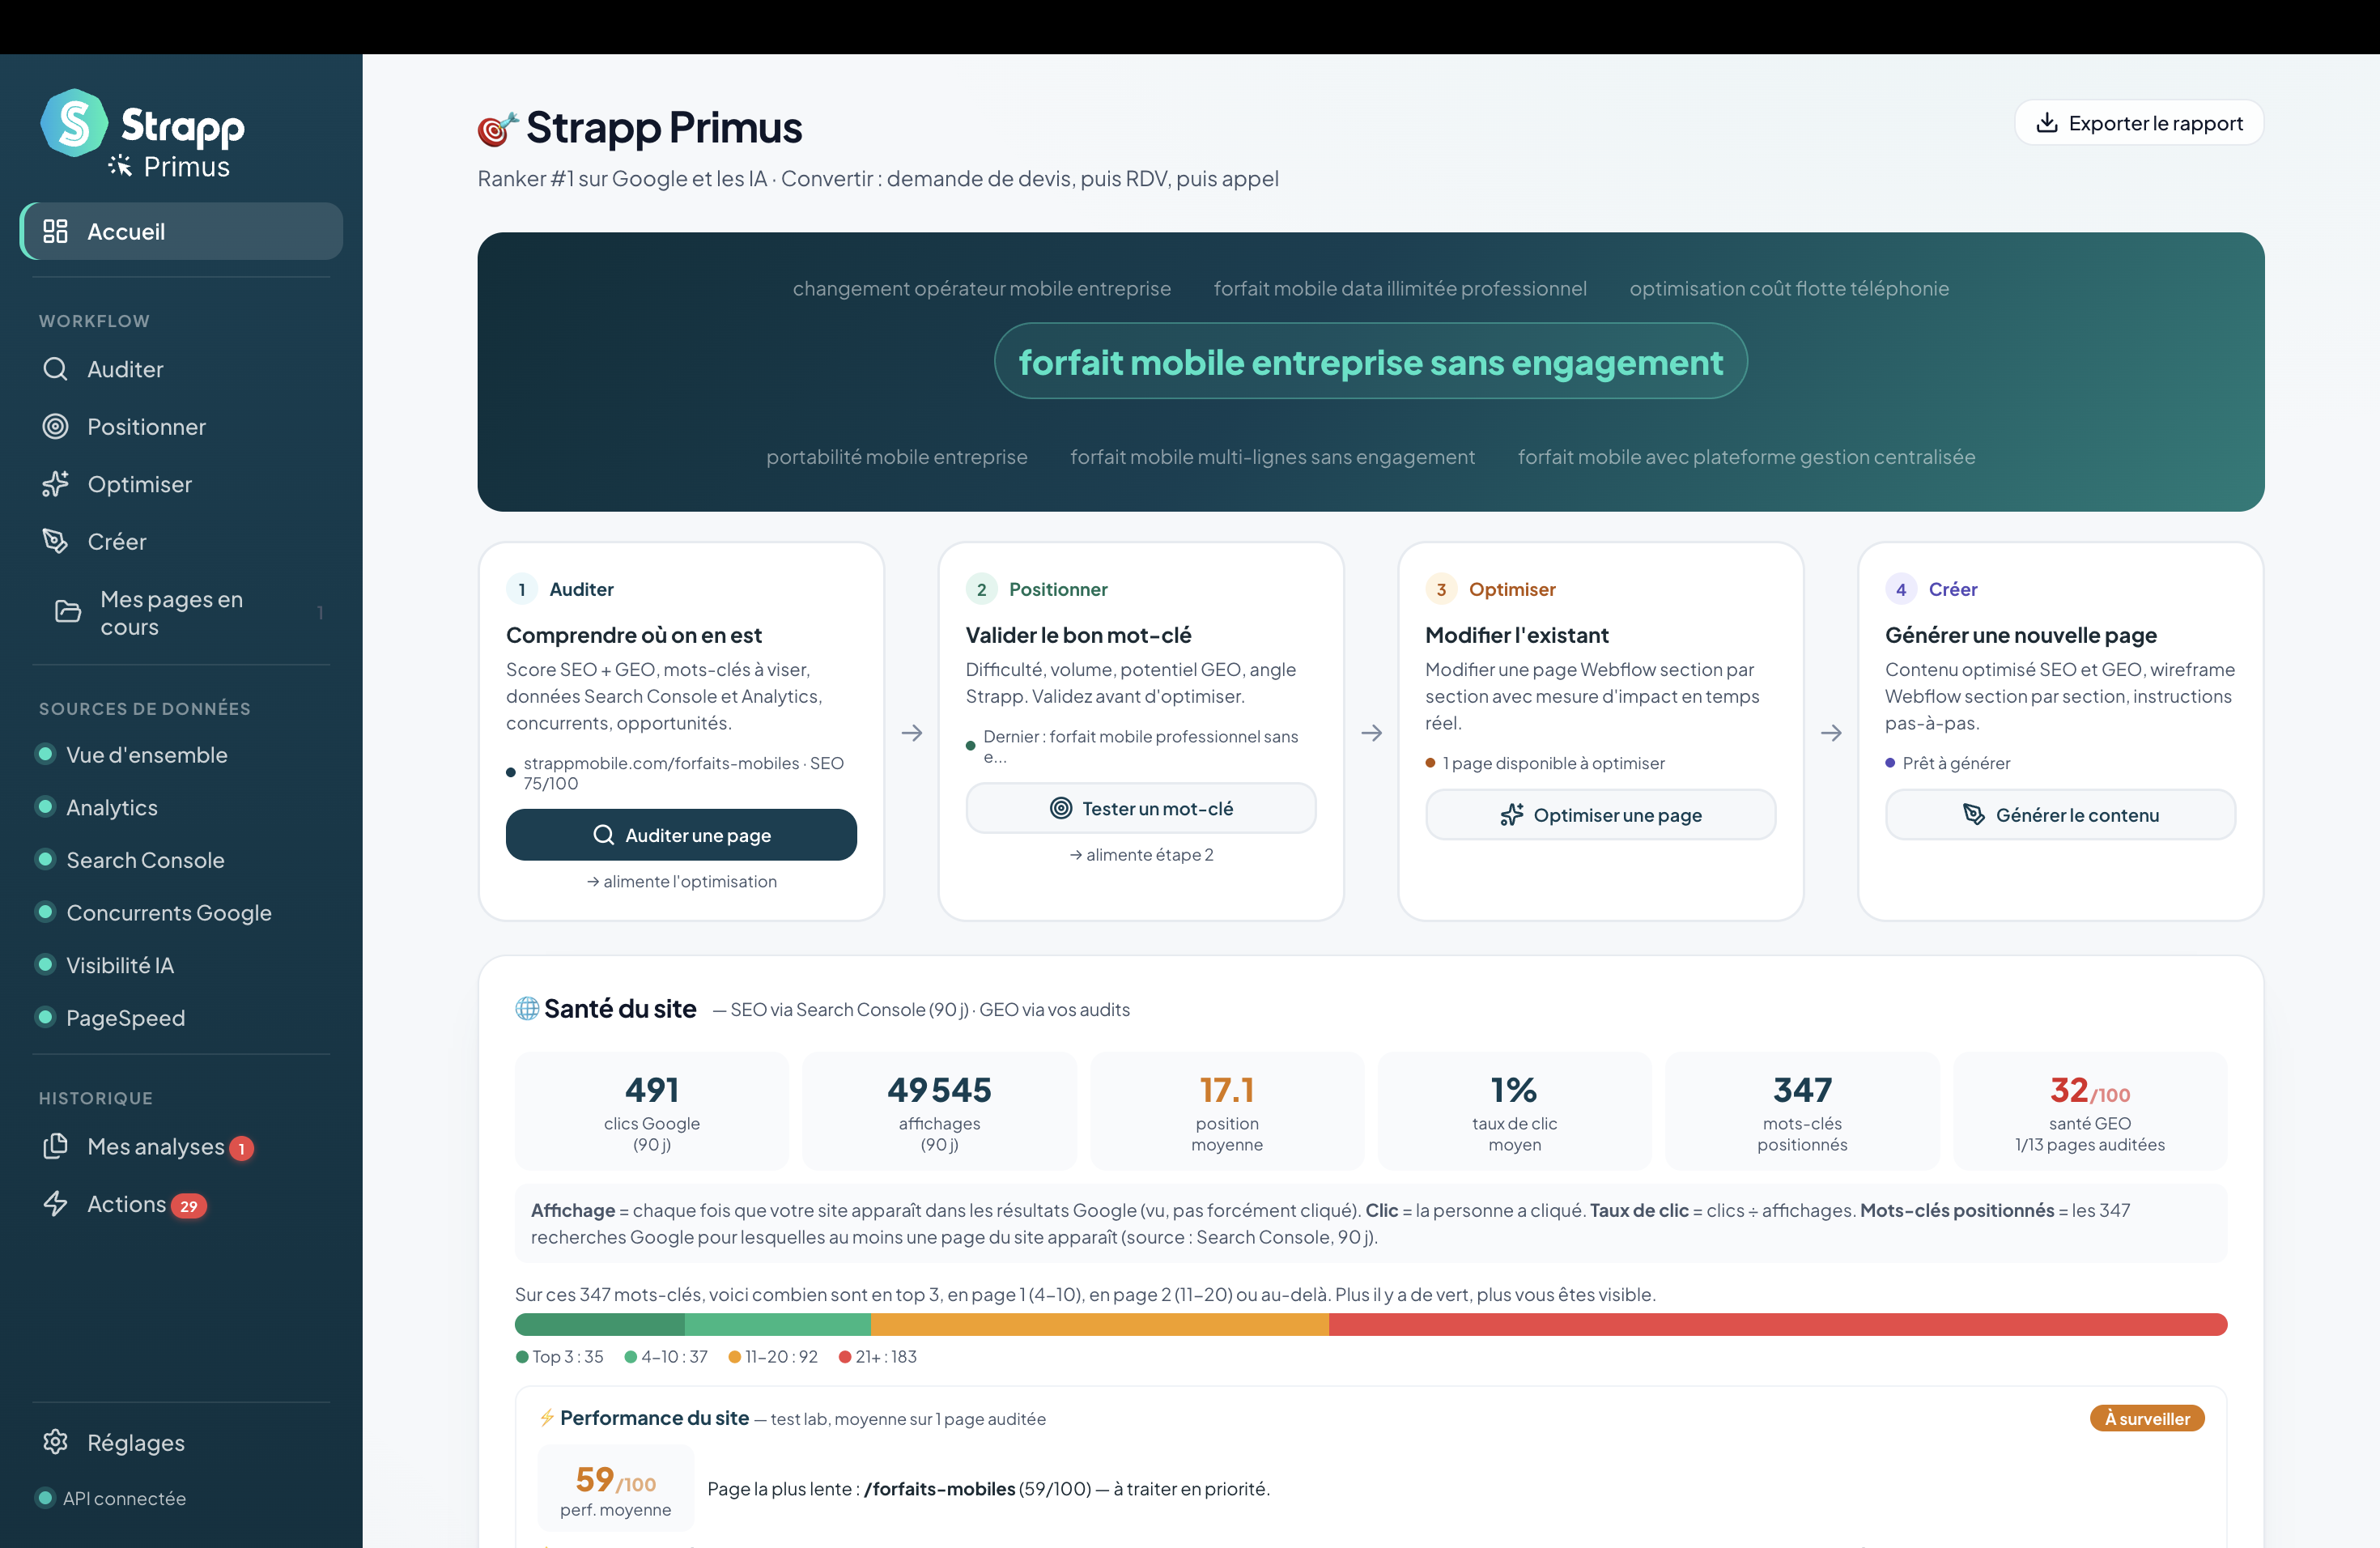
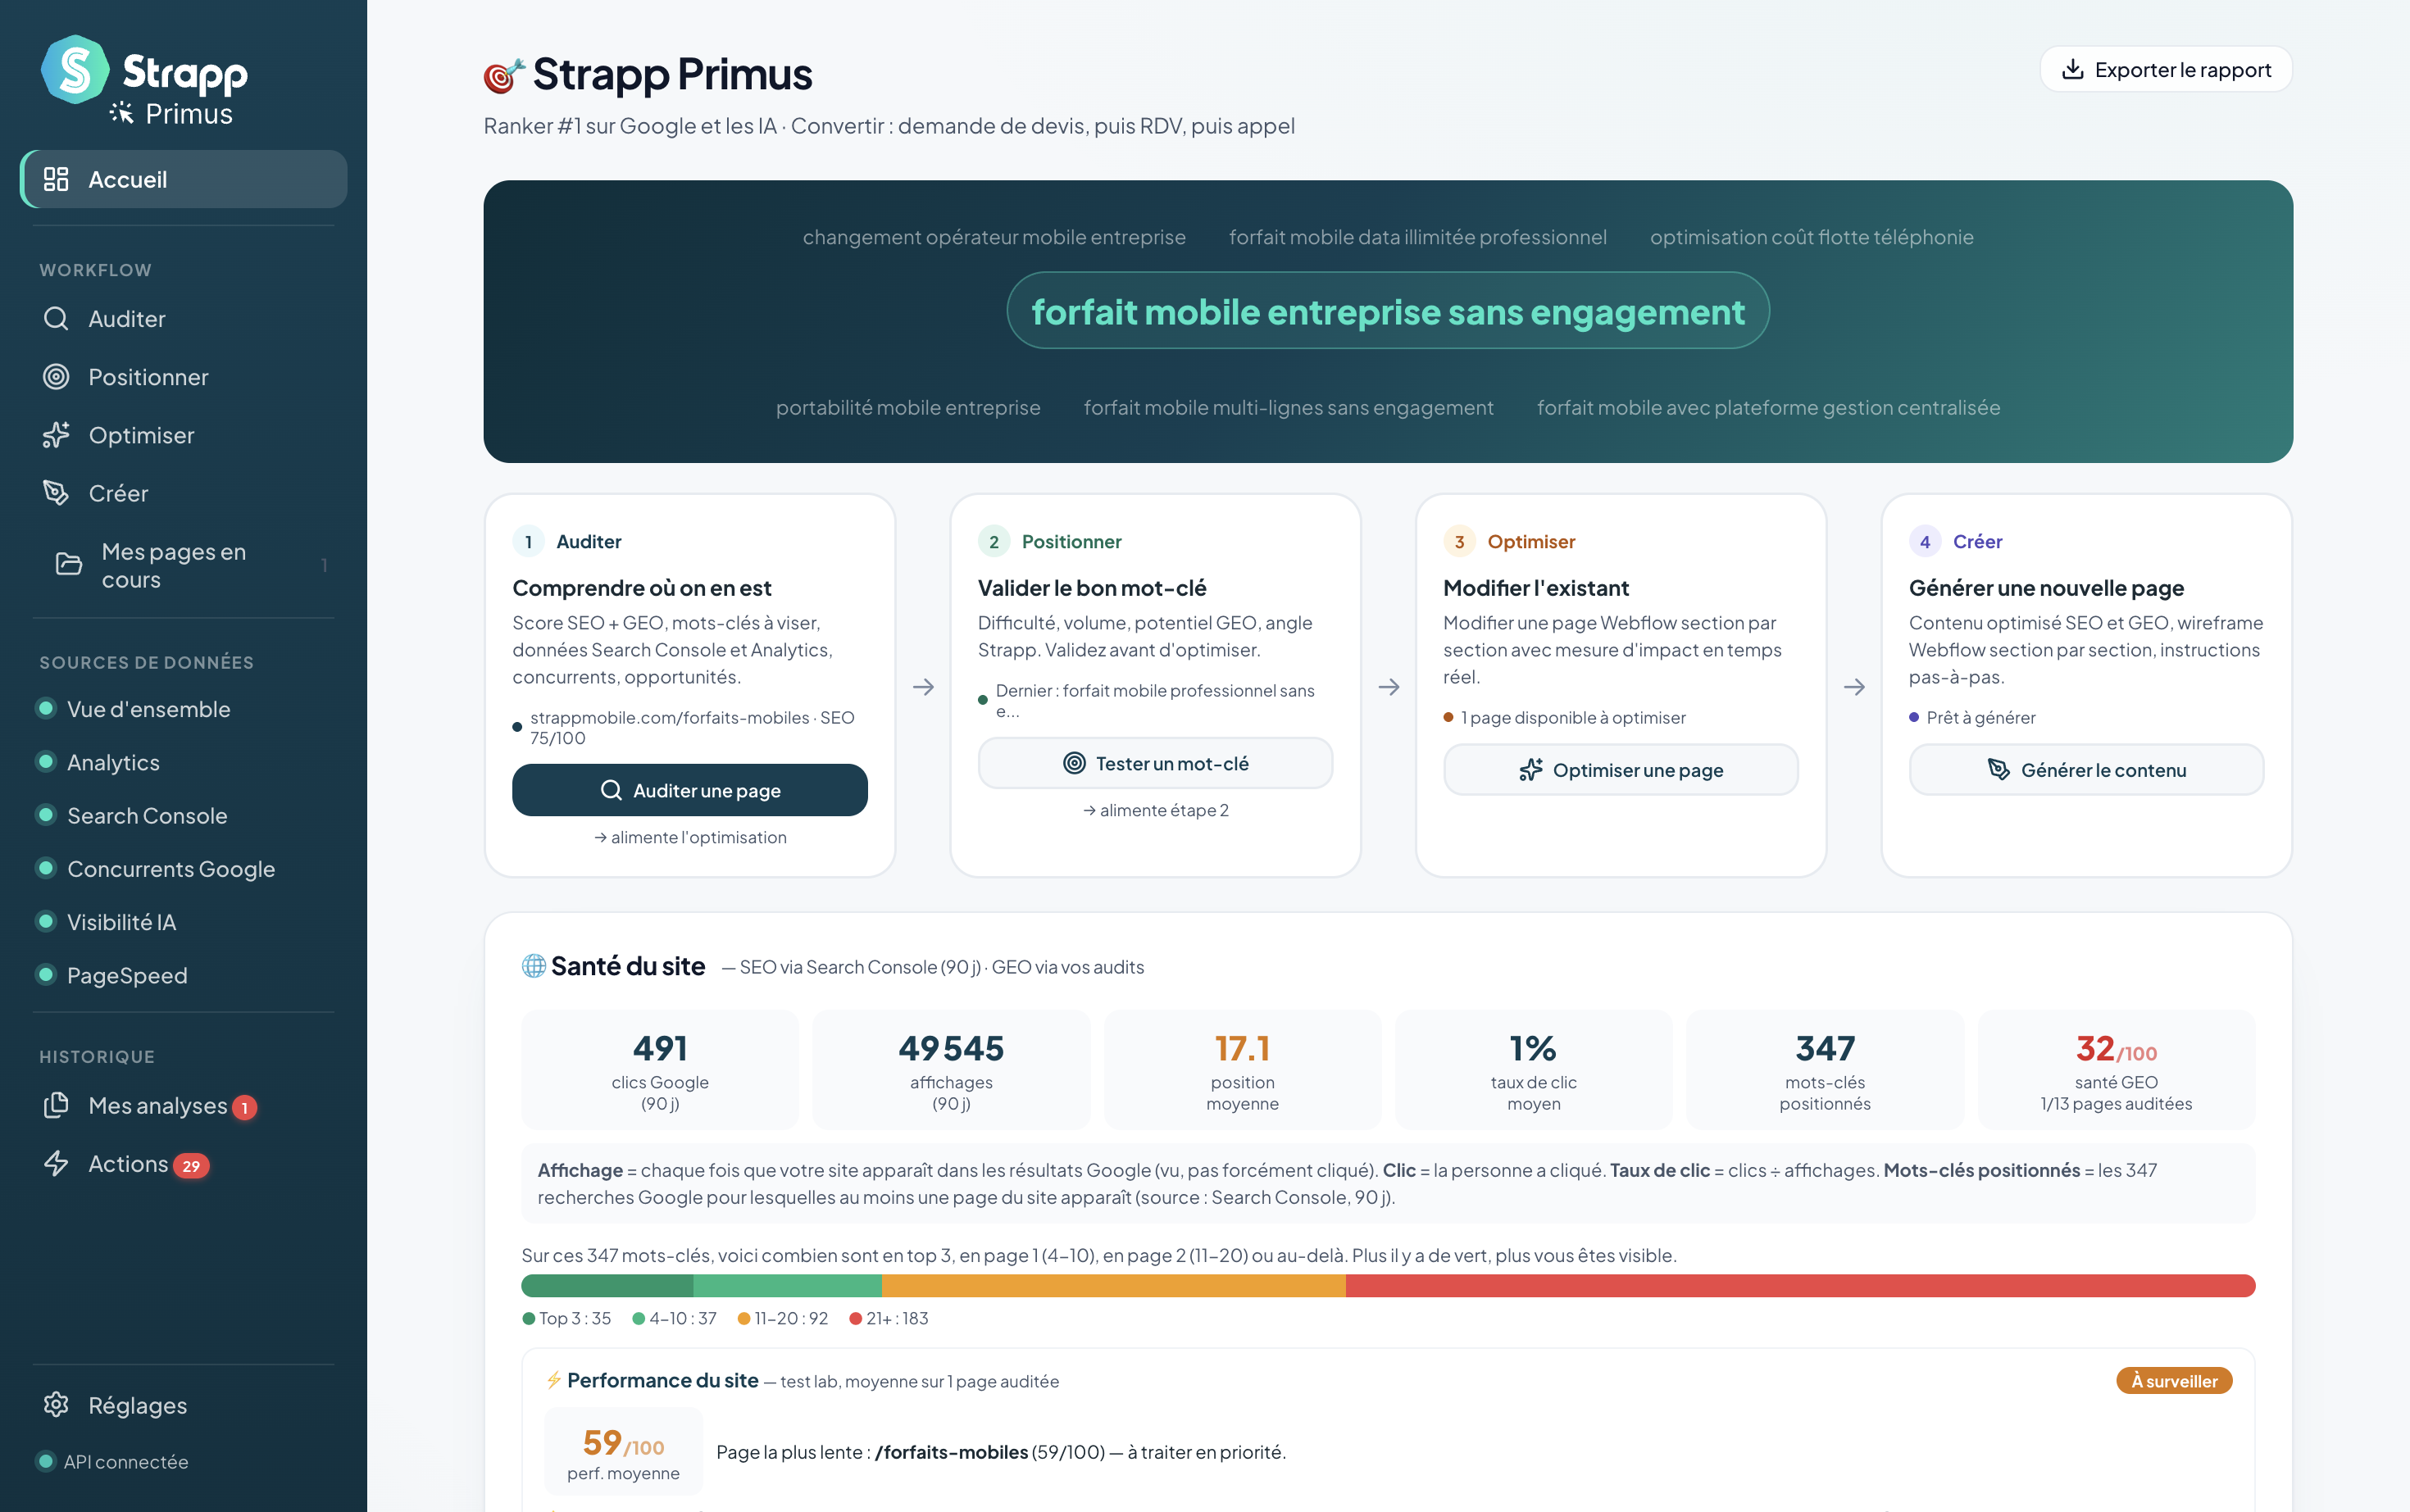
Strapp Primus : rogner bandeau noir dashboard, retirer screen audit hors DA

diff --git a/projets/outils-metiers/index.html b/projets/outils-metiers/index.html
@@ -214,10 +214,6 @@
         <img src="screens/Strapp_Primus.png" alt="Strapp Primus — Dashboard principal" loading="lazy">
         <p class="screen-cap">Dashboard · vue d'ensemble des pages, scores et priorités d'action</p>
       </figure>
-      <figure class="screen-fig" style="margin-top:clamp(24px,4vw,40px);">
-        <img src="screens/strapp-primus-audit.png" alt="Strapp Primus — Audit de page Visibilité IA" loading="lazy">
-        <p class="screen-cap">Audit de page · scores SEO et GEO · signaux Search Console · recommandations priorisées</p>
-      </figure>
     </div>
   </section>
 